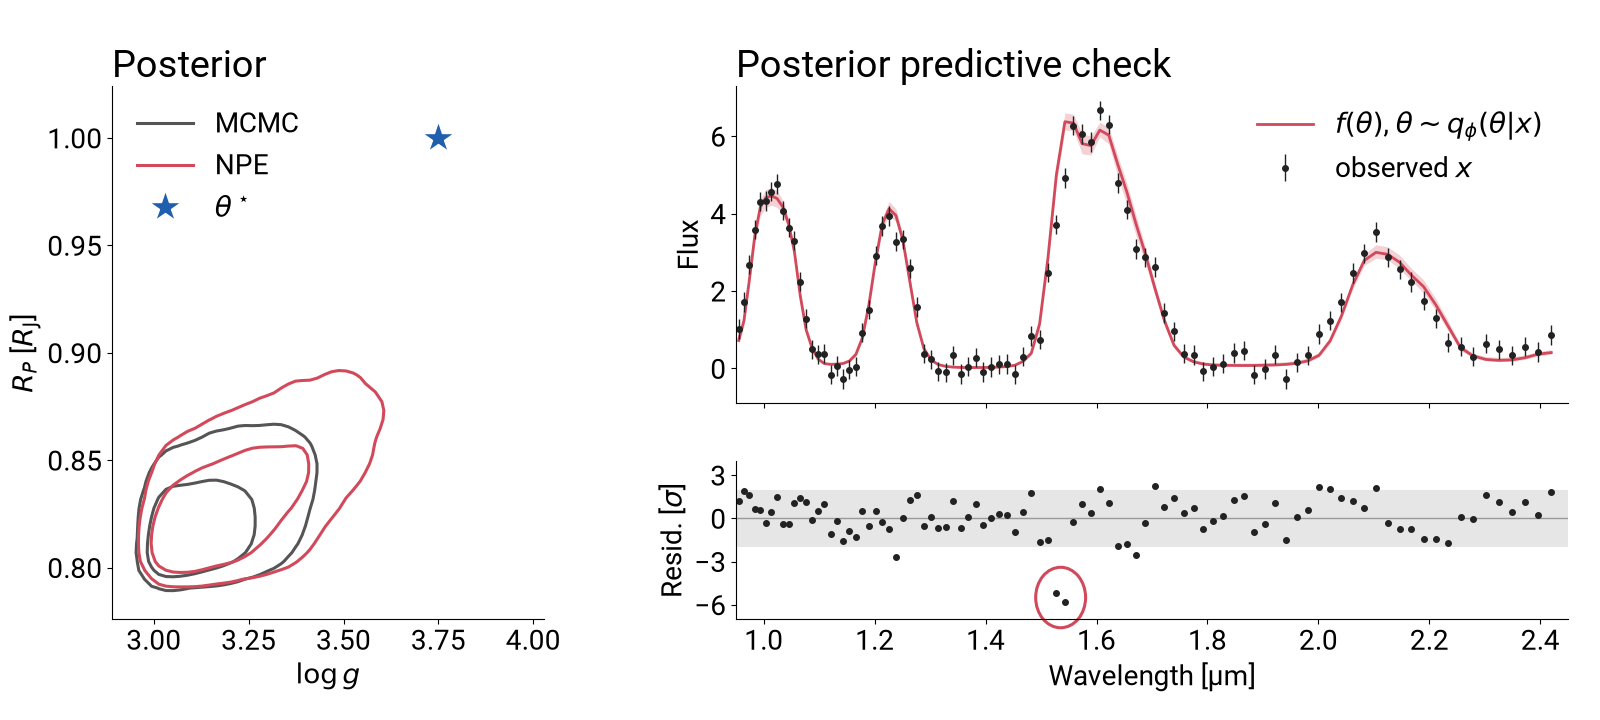
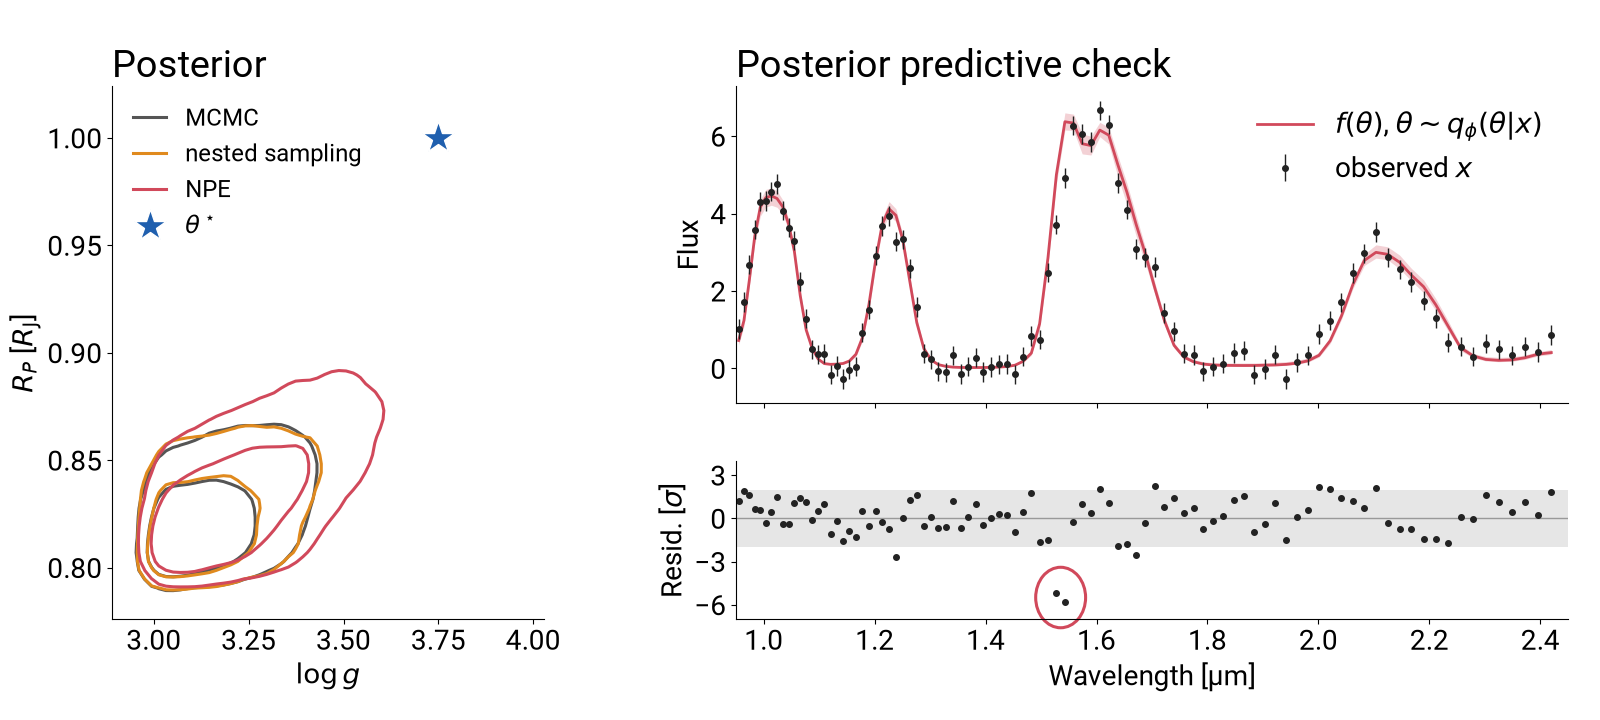
Slide 30: nested sampling posterior added (agrees with MCMC); legend clear of the truth marker

diff --git a/tools/toy_results.py b/tools/toy_results.py
@@ -500,7 +500,7 @@ def misspec(i=1, j=5, n_ppc=200, d=".render/data/toy-misspec/"):
     ap.set_ylim(lo[1], hi[1])
     ap.set_xlabel(T.LABELS[i])
     ap.set_ylabel(T.LABELS[j] + r" [$R_{\rm J}$]")
-    ap.legend(frameon=False, loc="upper left")
+    ap.legend(frameon=False, loc="upper left", fontsize=17, handlelength=1.4)
     ap.set_title("Posterior", loc="left", fontsize=27)
 
     # posterior predictive check

diff --git a/talk.md b/talk.md
@@ -609,7 +609,7 @@ So far, the simulator was correct. Here, we add an absorption band at 1.52 micro
 
 class: middle
 
-.center.width-100[![](figures/toy-misspec.png)]
+.center.width-100[![](figures/toy-misspec.png?v=2)]
 
 .center[The posteriors are .bold[confident and exact, but wrong], because of misspecification.]
 
@@ -617,7 +617,7 @@ class: middle
 
 ???
 
-On the left, the posteriors of the gravity and the radius. NPE and MCMC agree, are tight, and both miss the truth. The gravity even hits the edge of the prior. MCMC is exact, but for the wrong model.
+On the left, the posteriors of the gravity and the radius. NPE, MCMC and nested sampling agree, are tight, and all miss the truth. The gravity even hits the edge of the prior. MCMC and nested sampling are exact, but for the wrong model.
 
 Calibration does not catch this, since it is computed on simulated spectra. The posterior predictive check does. The fit looks fine by eye, but two residuals reach five to six sigma at the missing band.
 
